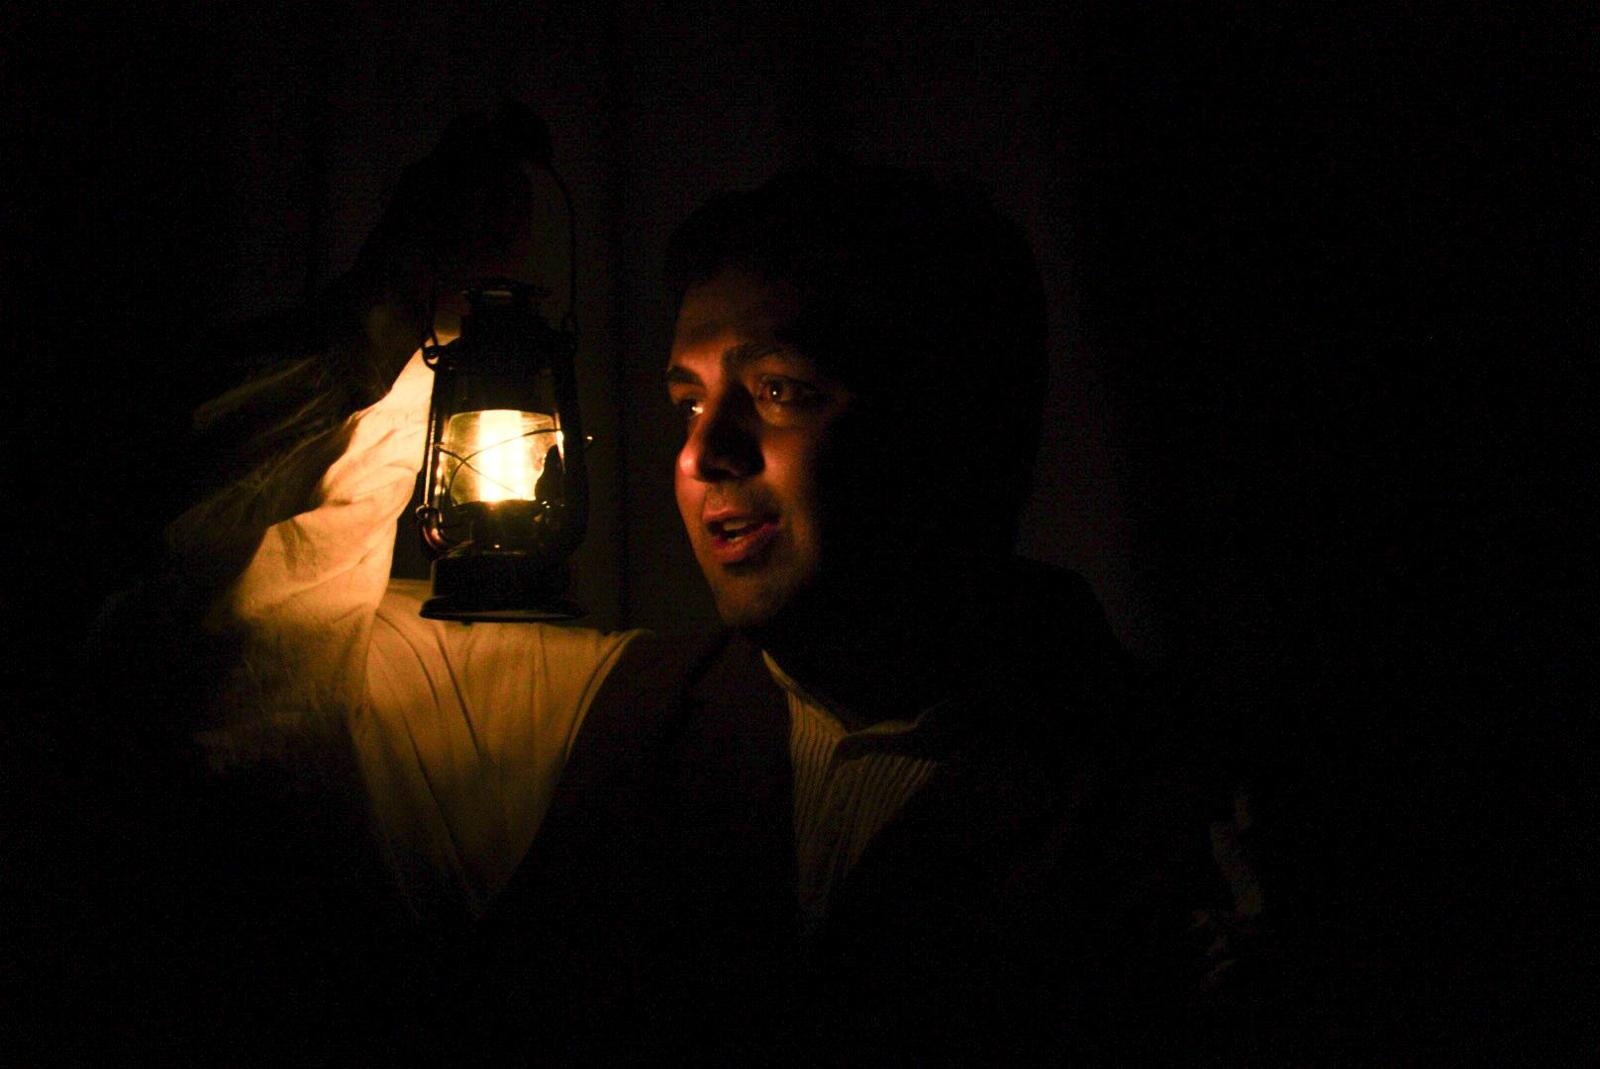
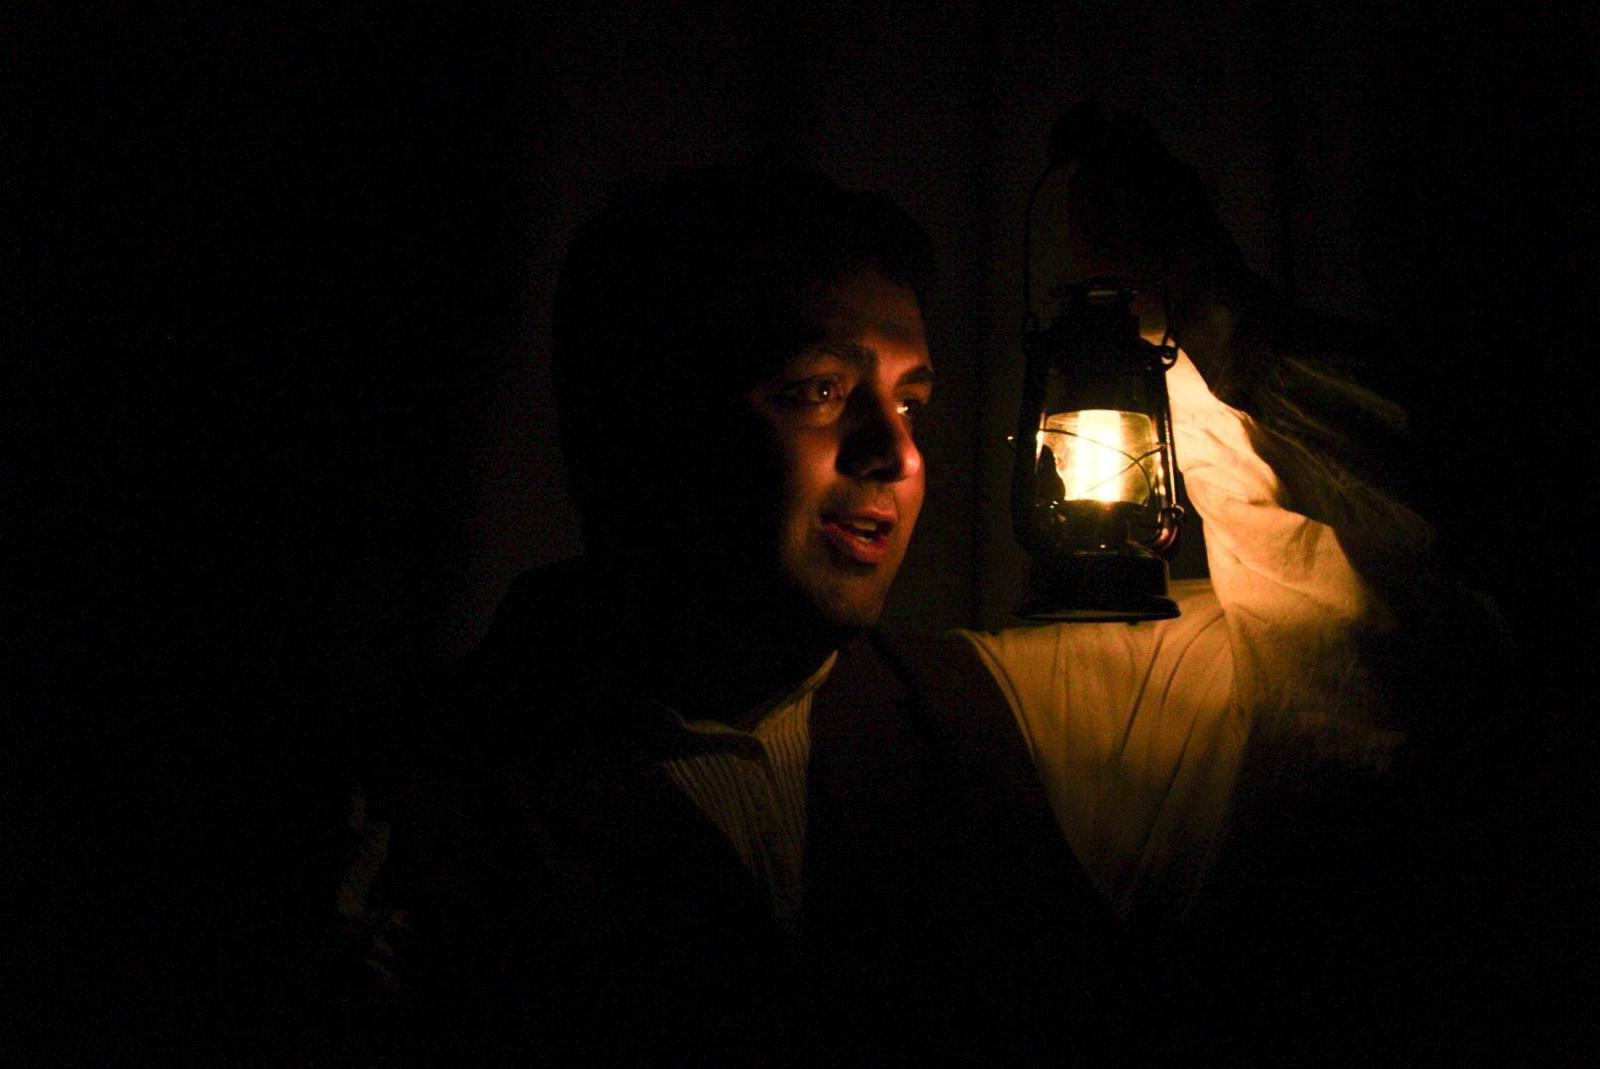
Update hero: left-aligned text, transparency, re-edited photos
- Hero title aligned left with margin
- Title opacity at 45% for photo visibility
- Updated Hero2 and Hero3 images

diff --git a/index.html b/index.html
@@ -192,6 +192,10 @@
             position: relative;
             z-index: 2;
             animation: fadeUp 1.2s ease both;
+            opacity: 0.45;
+            align-self: flex-start;
+            text-align: left;
+            margin-left: 60px;
         }
 
         .hero-title {
